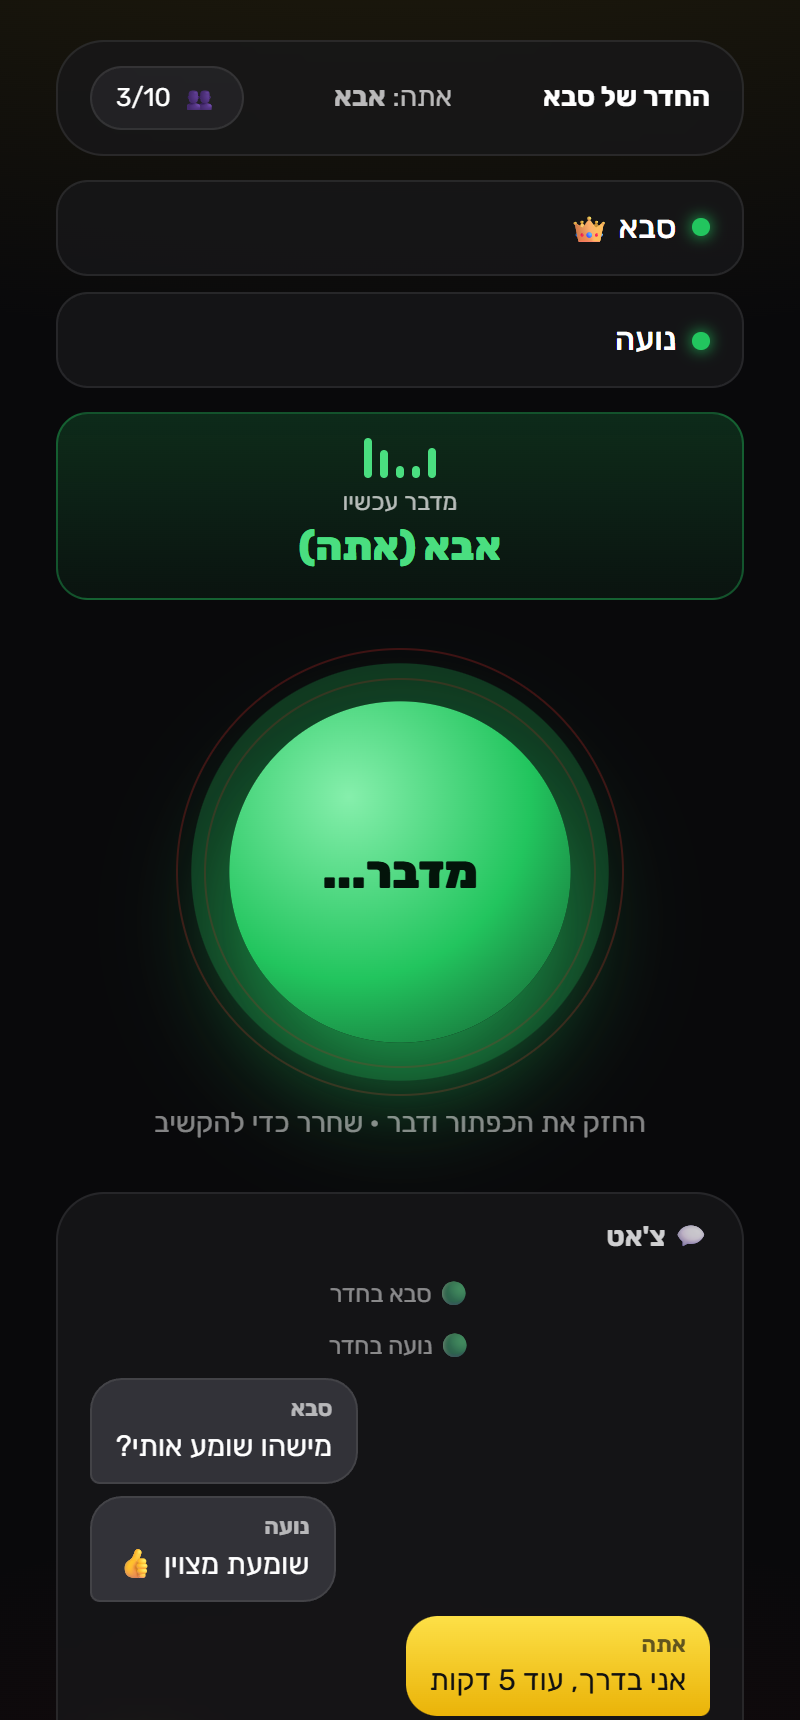
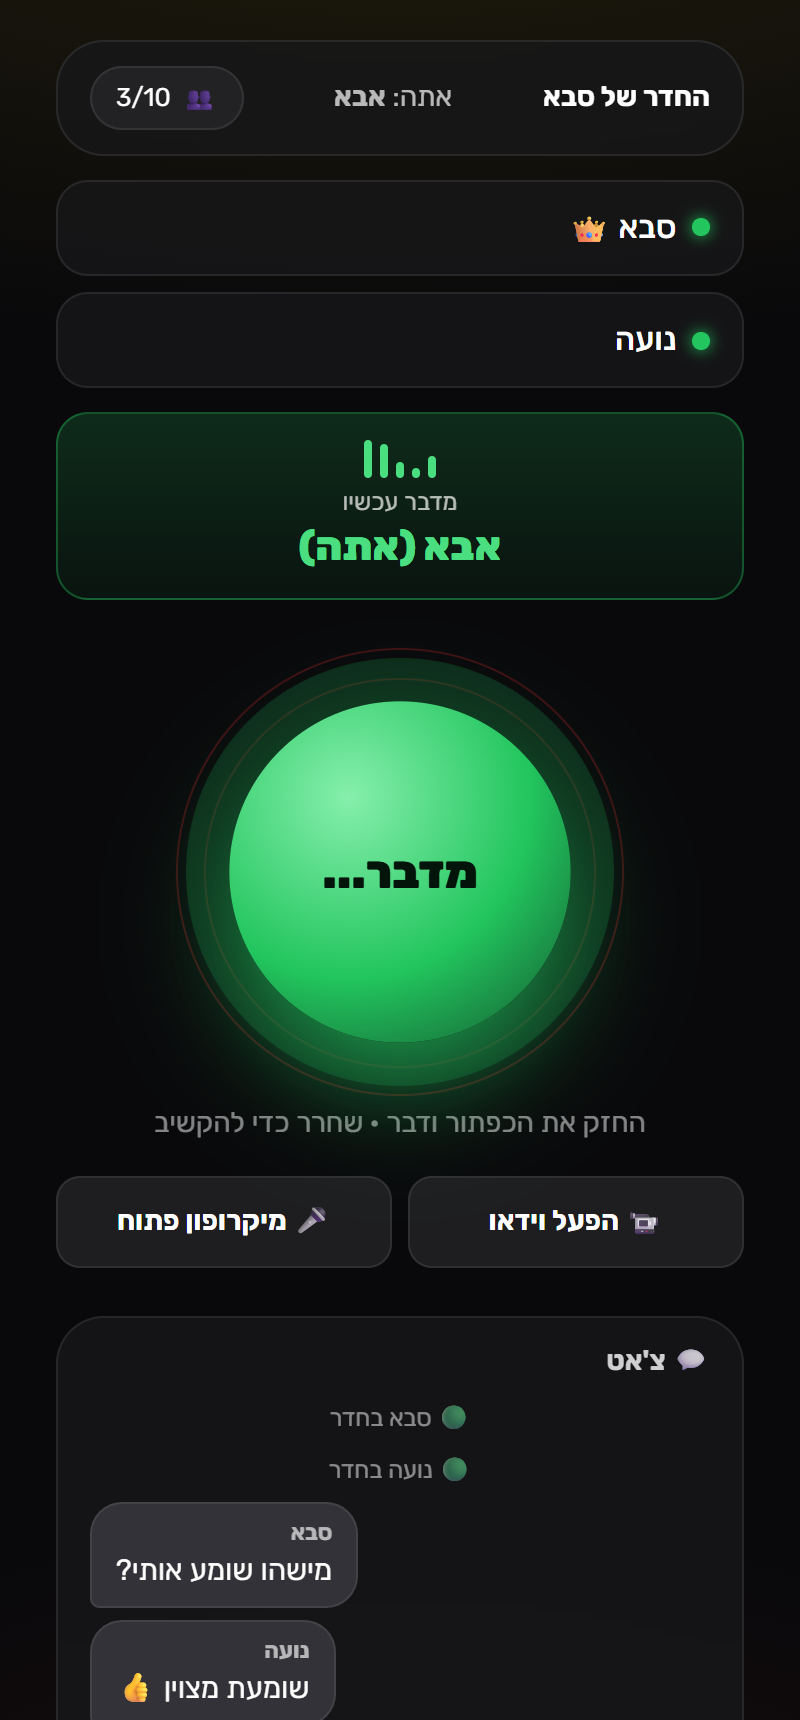
Add video calls and open-mic, auto-retry stuck connections
- Video: camera on/off for everyone in the room, tile grid (tap to enlarge),
  front/back camera switch. Each call carries a video slot from the start
  (blank placeholder track) so the camera is switched with replaceTrack -
  no reconnect. Falls back to plain constraints; turns off cleanly if the
  camera is lost
- Open mic: hands-free talking for a video call; push-to-talk unchanged
- Reliability: a media call or member connection whose signaling message
  got lost (stuck in have-local-offer) is retried automatically
- Don't reload the same remote stream twice ('stream' fires per track),
  which falsely showed the 'enable sound' button
- Screenshots + README

diff --git a/index.html b/index.html
@@ -69,6 +69,15 @@ body{font-family:'Rubik',system-ui,sans-serif;min-height:100dvh;
 #redBtn.on{background:radial-gradient(circle at 35% 28%,#86efac,#22c55e 55%,#14532d);color:#03140a;transform:scale(.97);animation:onAir 1.2s ease-out infinite}
 @keyframes onAir{0%{box-shadow:0 0 0 0 rgba(34,197,94,.55),0 25px 60px -10px rgba(34,197,94,.8)}100%{box-shadow:0 0 0 34px rgba(34,197,94,0),0 25px 60px -10px rgba(34,197,94,.8)}}
 
+/* video */
+.tile{position:relative;aspect-ratio:3/4;border-radius:1rem;overflow:hidden;background:#000;border:1px solid var(--line);cursor:pointer;animation:fadeUp .3s ease both}
+.tile:only-child{grid-column:1/-1;aspect-ratio:4/3}
+.tile.big{grid-column:1/-1;aspect-ratio:auto;height:60vh}
+.tile video{width:100%;height:100%;object-fit:cover;background:#000}
+.tile.mirror video{transform:scaleX(-1)}
+.tile span{position:absolute;bottom:.45rem;right:.5rem;font-size:.75rem;font-weight:700;background:rgba(0,0,0,.6);padding:.15rem .55rem;border-radius:999px}
+.btn-on{background:linear-gradient(180deg,#4ade80,#16a34a)!important;color:#04120a;border-color:transparent!important}
+
 /* chat */
 #chatLog{max-height:16rem;overflow-y:auto;scroll-behavior:smooth;display:flex;flex-direction:column;gap:.4rem}
 .msg{max-width:85%;padding:.45rem .75rem;border-radius:1rem;font-size:.92rem;line-height:1.35;word-wrap:break-word;animation:fadeUp .2s ease both;text-align:right}
@@ -146,6 +155,7 @@ body{font-family:'Rubik',system-ui,sans-serif;min-height:100dvh;
 </div>
 <button id="inviteToggle" onclick="document.getElementById('invite').classList.toggle('hidden')" class="hidden btn btn-ghost mt-2 w-full py-2 rounded-xl text-sm">📨 הזמן / הסתר</button>
 
+<div id="videoGrid" class="hidden grid grid-cols-2 gap-2 mt-3"></div>
 <div id="peers" class="mt-3 text-right space-y-2"></div>
 <p id="alone" class="mt-3 text-sm opacity-50">מחכה שמישהו יצטרף...</p>
 
@@ -159,6 +169,11 @@ body{font-family:'Rubik',system-ui,sans-serif;min-height:100dvh;
 <button id="redBtn">🔴<br>לחץ<br>ודבר</button>
 </div>
 <p class="mt-1 opacity-50 text-sm">החזק את הכפתור ודבר · שחרר כדי להקשיב</p>
+<div class="grid grid-cols-2 gap-2 mt-4">
+<button id="camBtn" onclick="toggleVideo()" class="btn btn-ghost py-3 rounded-xl text-sm font-bold">📹 הפעל וידאו</button>
+<button id="openMicBtn" onclick="toggleOpenMic()" class="btn btn-ghost py-3 rounded-xl text-sm font-bold">🎤 מיקרופון פתוח</button>
+</div>
+<button id="flipBtn" onclick="flipCam()" class="hidden btn btn-ghost w-full mt-2 py-2 rounded-xl text-sm">🔄 החלף מצלמה</button>
 <button id="unmuteBtn" onclick="unmuteAll()" class="hidden btn btn-amber mt-4 w-full font-bold py-3 rounded-xl">🔊 לחץ להפעלת השמע</button>
 <p id="micNote" class="hidden mt-3 text-xs text-red-400">אין גישה למיקרופון - אתה רק מקשיב</p>
 
@@ -184,6 +199,7 @@ const MAX=10;
 let myName='', peer=null, myStream=null, micOk=false, isHost=false;
 let hostId='', pin='', link='', joined=false, joinTimer=null;
 let conns={}, calls={}, names={}, lastSeen={}, pending={}, talkers={}, talking=false;
+let blankTrack=null, camTrack=null, videoOn=false, facing='user', openMic=false, remoteStreams={}, peerVideo={};
 let fails=0, lockUntil=0;
 
 function rand(n,abc){const a=new Uint32Array(n); crypto.getRandomValues(a); return [...a].map(x=>abc[x%abc.length]).join('');}
@@ -205,6 +221,7 @@ myStream=ctx.createMediaStreamDestination().stream;
 micOk=false;
 }
 myStream.getAudioTracks().forEach(t=>t.enabled=false);
+blankTrack=makeBlank();
 return myStream;
 }
 
@@ -292,12 +309,21 @@ if(msg.includes('קוד')){$('pinWrap').classList.remove('hidden'); $('pinOk').c
 
 // ---------- connections ----------
 // everyone in the room knows the entry code; every new connection must prove it with 'hello'
-function dial(id){
-if(!id||!peer||id===peer.id||conns[id]||pending[id]) return;
-pending[id]=1; setTimeout(()=>delete pending[id],20000);
+function dial(id,n=0){
+if(!id||!peer||id===peer.id||conns[id]||(pending[id]&&!n)) return;
+pending[id]=1; setTimeout(()=>{if(!conns[id]) delete pending[id];},20000);
 const c=peer.connect(id,{reliable:true});
 c.on('open',()=>c.send({t:'hello',name:myName,pin}));
 bind(c,id);
+// signaling through the PeerJS server sometimes loses a message: retry other members (not the host - the join screen handles that)
+if(id!==hostId) setTimeout(()=>{if(!conns[id]&&n<3&&peer&&!peer.destroyed){try{c.close()}catch(e){} dial(id,n+1);}},8000);
+}
+// media call with retry: if no stream arrives in a few seconds, hang up and call again
+function startCall(id,n=0){
+if(!conns[id]||!peer) return;
+if(calls[id]){try{calls[id].close()}catch(e){}}
+const call=peer.call(id,outStream()); calls[id]=call; handleCall(call,id);
+setTimeout(()=>{if(conns[id]&&calls[id]===call&&!call._got&&n<4) startCall(id,n+1);},6000+n*2000);
 }
 function onIncoming(c){bind(c,c.peer);}
 function bind(c,id){
@@ -321,12 +347,14 @@ if(Object.keys(conns).length+1>=MAX){try{c.send({t:'deny',why:'full'})}catch(e){
 accept(c,id,d.name);
 c.send({t:'ok',name:myName,host:isHost,peers:isHost?Object.keys(conns).filter(x=>x!==id):[]});
 if(talking) c.send({t:'talk',on:true});
+if(videoOn) c.send({t:'video',on:true});
 return;
 }
 if(d.t==='ok'&&!conns[id]){ // our dial was accepted
 accept(c,id,d.name);
-calls[id]=peer.call(id,myStream); handleCall(calls[id],id);
+startCall(id);
 if(talking) c.send({t:'talk',on:true});
+if(videoOn) c.send({t:'video',on:true});
 if(id===hostId&&!joined){
 joined=true; clearTimeout(joinTimer);
 $('roomLabel').textContent='החדר של '+names[id];
@@ -342,17 +370,95 @@ c.close(); return;
 if(conns[id]!==c) return; // ignore anything from connections that did not pass the code
 if(d.t==='talk') setTalker(id,d.on);
 if(d.t==='chat') addMsg(names[id],String(d.text||'').slice(0,300),'them');
+if(d.t==='video'){peerVideo[id]=!!d.on; renderVideo();}
 }
 function onCall(call){
 if(!conns[call.peer]){call.close();return;} // only participants that passed the code
-call.answer(myStream); calls[call.peer]=call; handleCall(call,call.peer);
+const old=calls[call.peer]; if(old&&old!==call){try{old.close()}catch(e){}} // a retried call replaces the stuck one
+call.answer(outStream()); calls[call.peer]=call; handleCall(call,call.peer);
 }
-function handleCall(call,id){call.on('stream',s=>addAudio(s,id));}
+function handleCall(call,id){call.on('stream',s=>{call._got=true; if(calls[id]===call) addAudio(s,id);});}
 function addAudio(s,id){
 let a=$('a-'+id);
 if(!a){a=document.createElement('audio'); a.id='a-'+id; a.autoplay=true; a.playsInline=true; $('audios').appendChild(a);}
+remoteStreams[id]=s;
+if(a.srcObject!==s){ // 'stream' fires once per track (audio + video) - don't reload the same stream
 a.srcObject=s;
-a.play().catch(()=>$('unmuteBtn').classList.remove('hidden'));
+a.play().catch(e=>{if(e.name==='NotAllowedError') $('unmuteBtn').classList.remove('hidden');});
+}
+renderVideo();
+}
+
+// ---------- video ----------
+// every call carries a video slot from the start (a blank placeholder track), so the camera
+// can be switched on/off later with replaceTrack - no reconnect / renegotiation needed
+function makeBlank(){
+try{const c=document.createElement('canvas'); c.width=160; c.height=120; c.getContext('2d').fillRect(0,0,160,120);
+const t=c.captureStream(1).getVideoTracks()[0]; return t||null;}catch(e){return null;}
+}
+function outStream(){
+const v=videoOn&&camTrack?camTrack:blankTrack;
+return new MediaStream([...myStream.getAudioTracks(),...(v?[v]:[])]);
+}
+function videoSender(id){
+const pc=calls[id]&&calls[id].peerConnection; if(!pc) return null;
+const t=pc.getTransceivers().find(x=>x.receiver&&x.receiver.track&&x.receiver.track.kind==='video');
+return t?t.sender:null;
+}
+function pushVideo(){
+const tr=videoOn&&camTrack?camTrack:blankTrack;
+Object.keys(calls).forEach(id=>{const s=videoSender(id); if(s) s.replaceTrack(tr).catch(()=>{});});
+}
+async function openCam(){
+let s;
+try{s=await navigator.mediaDevices.getUserMedia({video:{facingMode:facing,width:{ideal:640},height:{ideal:480},frameRate:{ideal:15,max:24}}});}
+catch(e){if(e.name==='NotAllowedError') throw e; s=await navigator.mediaDevices.getUserMedia({video:true});} // camera that rejects the settings
+const t=s.getVideoTracks()[0];
+t.addEventListener('ended',()=>{if(camTrack===t&&videoOn) toggleVideo();}); // camera lost (unplugged / taken by another app)
+return t;
+}
+async function toggleVideo(){
+if(videoOn){
+videoOn=false; pushVideo(); if(camTrack){camTrack.stop(); camTrack=null;}
+sendAll({t:'video',on:false}); renderVideo(); return;
+}
+$('camBtn').disabled=true;
+try{camTrack=await openCam();}catch(e){$('camBtn').disabled=false; alert('צריך לאשר גישה למצלמה כדי להפעיל וידאו'); return;}
+$('camBtn').disabled=false;
+videoOn=true; pushVideo(); sendAll({t:'video',on:true}); renderVideo();
+}
+async function flipCam(){
+if(!videoOn) return;
+facing=facing==='user'?'environment':'user';
+try{const old=camTrack; camTrack=await openCam(); pushVideo(); if(old) old.stop(); renderVideo(true);}catch(e){facing=facing==='user'?'environment':'user';}
+}
+let myPreview=null;
+function renderVideo(fresh){
+const g=$('videoGrid'), want=[];
+if(videoOn&&camTrack){if(fresh||!myPreview||myPreview.getVideoTracks()[0]!==camTrack) myPreview=new MediaStream([camTrack]); want.push(['me',myPreview,'אתה']);}
+Object.keys(conns).forEach(id=>{if(peerVideo[id]&&remoteStreams[id]) want.push([id,remoteStreams[id],names[id]]);});
+[...g.children].forEach(t=>{if(!want.some(w=>'v-'+w[0]===t.id)) t.remove();});
+want.forEach(([id,s,label])=>{
+let t=$('v-'+id);
+if(!t){
+t=document.createElement('div'); t.id='v-'+id; t.className='tile';
+const v=document.createElement('video'); v.autoplay=true; v.playsInline=true; v.muted=true; // sound already plays through the audio element
+const l=document.createElement('span'); l.textContent=label;
+t.append(v,l); t.onclick=()=>t.classList.toggle('big'); g.appendChild(t);
+}
+if(id==='me') t.classList.toggle('mirror',facing==='user');
+const v=t.querySelector('video'); if(v.srcObject!==s) v.srcObject=s; v.play().catch(()=>{});
+});
+g.classList.toggle('hidden',!want.length);
+const cb=$('camBtn'); cb.textContent=videoOn?'📹 כבה וידאו':'📹 הפעל וידאו'; cb.classList.toggle('btn-on',videoOn);
+$('flipBtn').classList.toggle('hidden',!videoOn);
+}
+
+// open mic: talk hands-free (for a video call) without holding the red button
+function toggleOpenMic(){
+openMic=!openMic;
+const b=$('openMicBtn'); b.classList.toggle('btn-on',openMic); b.textContent=openMic?'🎤 מיקרופון פתוח ✓':'🎤 מיקרופון פתוח';
+if(openMic) startTalk(); else stopTalk();
 }
 function unmuteAll(){document.querySelectorAll('#audios audio').forEach(a=>a.play().catch(()=>{})); $('unmuteBtn').classList.add('hidden');}
 function drop(id){
@@ -360,7 +466,8 @@ const had=!!conns[id];
 delete conns[id]; delete lastSeen[id]; delete talkers[id];
 if(calls[id]){try{calls[id].close()}catch(e){} delete calls[id];}
 const a=$('a-'+id); if(a) a.remove();
-renderPeers(); renderTalk();
+delete peerVideo[id]; delete remoteStreams[id];
+renderPeers(); renderTalk(); renderVideo();
 if(had) addMsg('','⚪ '+(names[id]||'משתתף')+' כבר לא בחדר','sys');
 }
 // heartbeat: drop anyone silent for 25s (closed app / lost signal)
@@ -412,7 +519,7 @@ const b=$('redBtn'); b.textContent='מדבר...'; b.classList.add('on');
 sendAll({t:'talk',on:true}); renderTalk();
 }
 function stopTalk(){
-if(!talking) return;
+if(!talking||openMic) return; // open mic stays on until it is switched off
 talking=false;
 if(myStream) myStream.getAudioTracks().forEach(t=>t.enabled=false);
 const b=$('redBtn'); b.innerHTML='🔴<br>לחץ<br>ודבר'; b.classList.remove('on');

diff --git a/README.md b/README.md
@@ -2,7 +2,7 @@
 
 # 📻 ווקי-טוקי
 
-ווקי-טוקי בדפדפן עם צ'אט. המארח יוצר חדר ושולח קישור, החברים פותחים אותו, לוחצים "הצטרף" ומדברים.
+ווקי-טוקי בדפדפן עם שיחת וידאו וצ'אט. המארח יוצר חדר ושולח קישור, החברים פותחים אותו, לוחצים "הצטרף" ומדברים.
 לא צריך להתקין כלום או להירשם, ועד 10 אנשים יכולים להיות בחדר.
 
 ## ▶ [לחצו כאן להפעלה](https://dor2500.github.io/walkie-talkie/)
@@ -15,7 +15,8 @@
 2. המארח מקבל **קישור הזמנה** שכבר כולל את **קוד הכניסה**. שולחים אותו בוואטסאפ, בשיתוף או בהעתקה, או מציגים ברקוד.
 3. **החברים** פותחים את הקישור, כותבים שם ולוחצים **"הצטרף"**.
 4. מחזיקים את **הכפתור האדום** ומדברים. כולם רואים מי מדבר עכשיו.
-5. 💬 למטה יש **צ'אט** להודעות כתובות לכל החדר.
+5. 📹 **שיחת וידאו:** לוחצים **"הפעל וידאו"** וכולם רואים אותך. **"🎤 מיקרופון פתוח"** מאפשר לדבר בלי להחזיק את הכפתור, כמו בשיחה רגילה. נגיעה בתמונה מגדילה אותה, ו-🔄 מחליף בין מצלמה קדמית לאחורית.
+6. 💬 למטה יש **צ'אט** להודעות כתובות לכל החדר.
 
 > המארח צריך להשאיר את הדף פתוח, כי דרכו מצטרפים חדשים.
 
@@ -25,9 +26,9 @@
 |:---:|:---:|:---:|
 | <img src="screenshots/1-home.png" width="220"> | <img src="screenshots/2-host-invite.png" width="220"> | <img src="screenshots/3-join.png" width="220"> |
 
-| 4. מישהו מדבר + צ'אט | 5. אתה משדר |
-|:---:|:---:|
-| <img src="screenshots/4-talk-chat.png" width="220"> | <img src="screenshots/5-on-air.png" width="220"> |
+| 4. מישהו מדבר + צ'אט | 5. אתה משדר | 6. שיחת וידאו |
+|:---:|:---:|:---:|
+| <img src="screenshots/4-talk-chat.png" width="220"> | <img src="screenshots/5-on-air.png" width="220"> | <img src="screenshots/6-video.png" width="220"> |
 
 ## 🔒 אבטחה
 
@@ -36,7 +37,9 @@
 - **שלחו את הקישור רק למי שאתם רוצים בחדר:** מי שיש לו את הקישור יכול להיכנס.
 - הצ'אט מוצג כטקסט בלבד, כך שאי אפשר להחדיר דרכו קוד.
 - אחרי 5 ניסיונות שגויים הכניסה ננעלת ל-30 שניות.
-- השמע עובר ישירות בין המכשירים ומוצפן (WebRTC: DTLS-SRTP).
+- השמע והווידאו עוברים ישירות בין המכשירים ומוצפנים (WebRTC: DTLS-SRTP).
+
+> 📶 כל אחד שולח וידאו לכל אחד אחר, אז עם הרבה משתתפים בווידאו צריך אינטרנט טוב. וידאו עובד הכי טוב עד 4–5 אנשים.
 
 ## ⚙ טכנולוגיה
 
